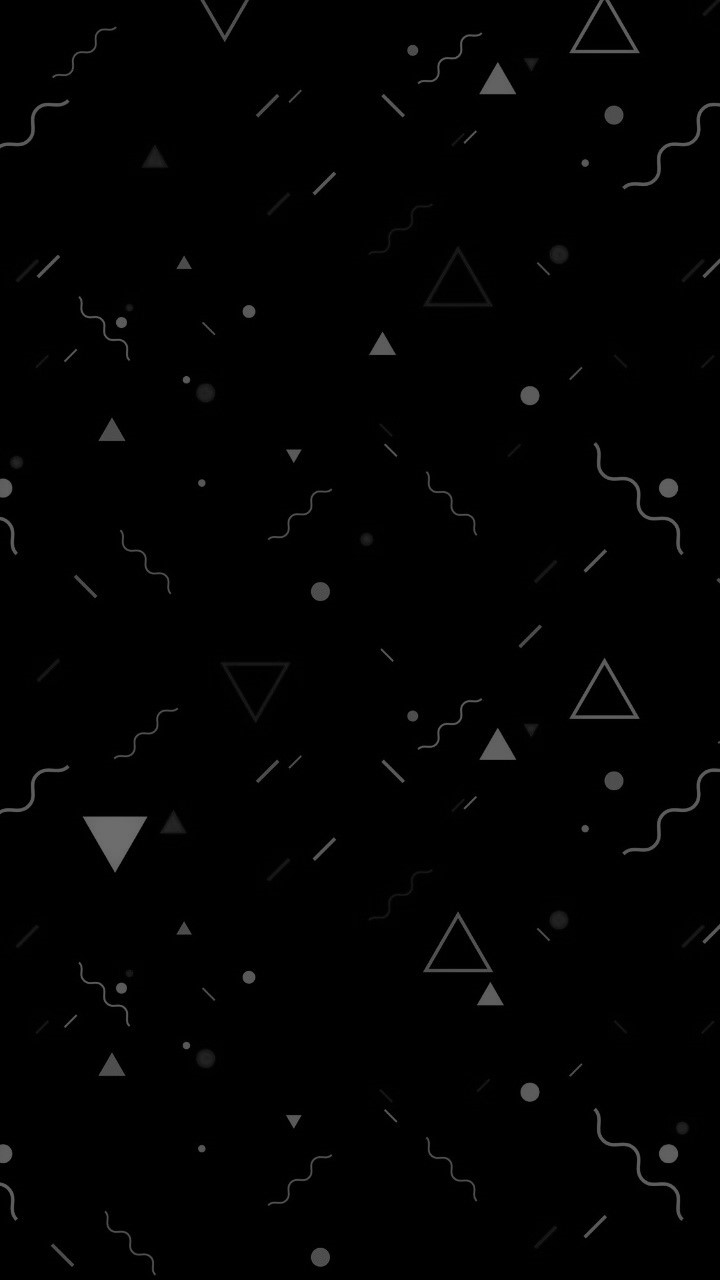
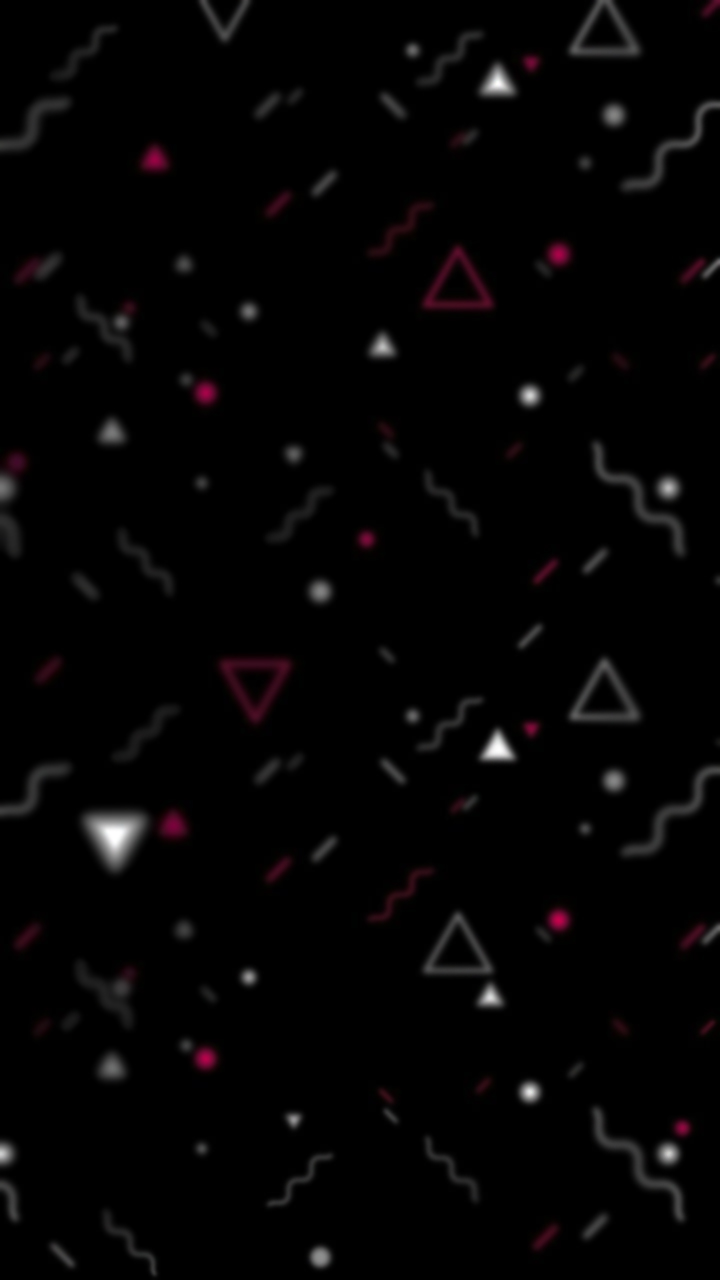
Fondo

diff --git a/css/estilos.css b/css/estilos.css
@@ -87,6 +87,10 @@ nav ul li
     margin: 100px;
     margin-top: 50px;
     height: 100%;
+    background-image: url('img/fondo.jpg');
+    background-repeat: repeat;
+    background-position: center;
+    background-size: cover;
 }
 
 /*Cierra Container*/
